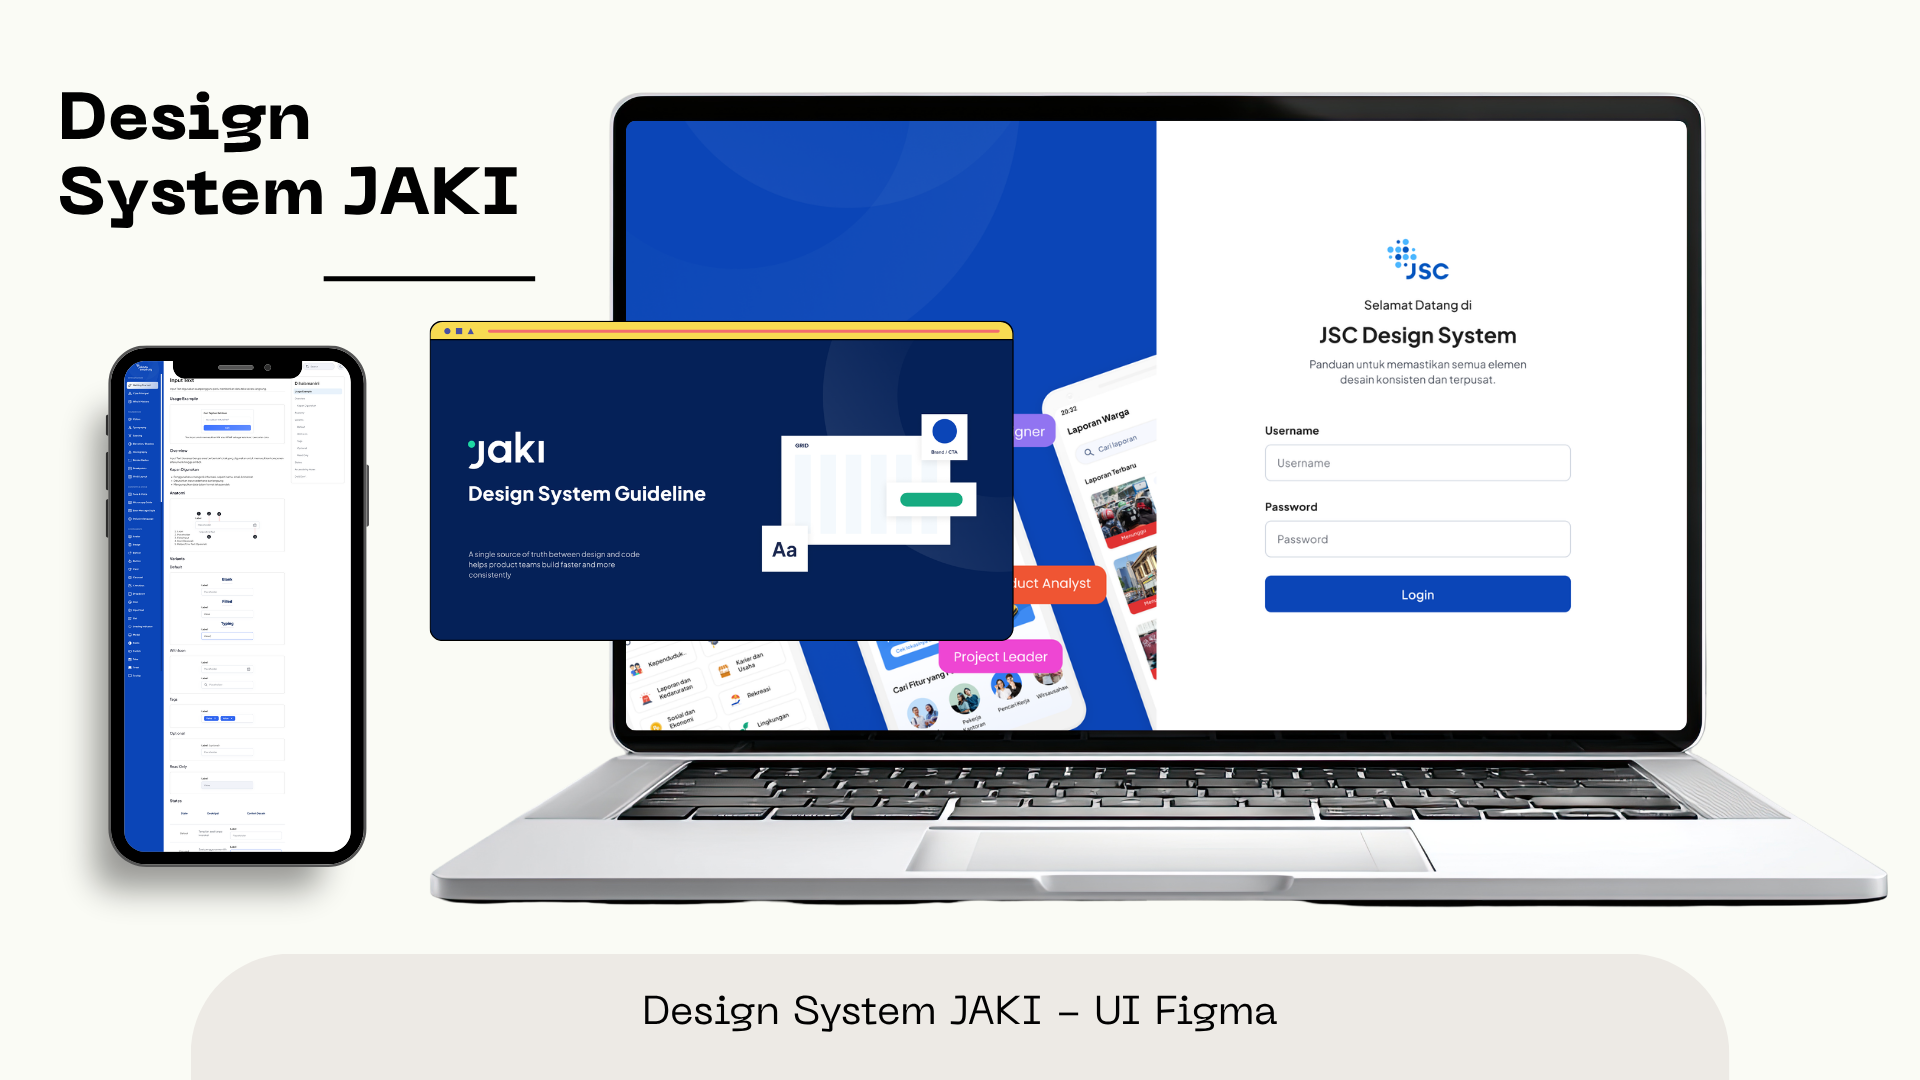
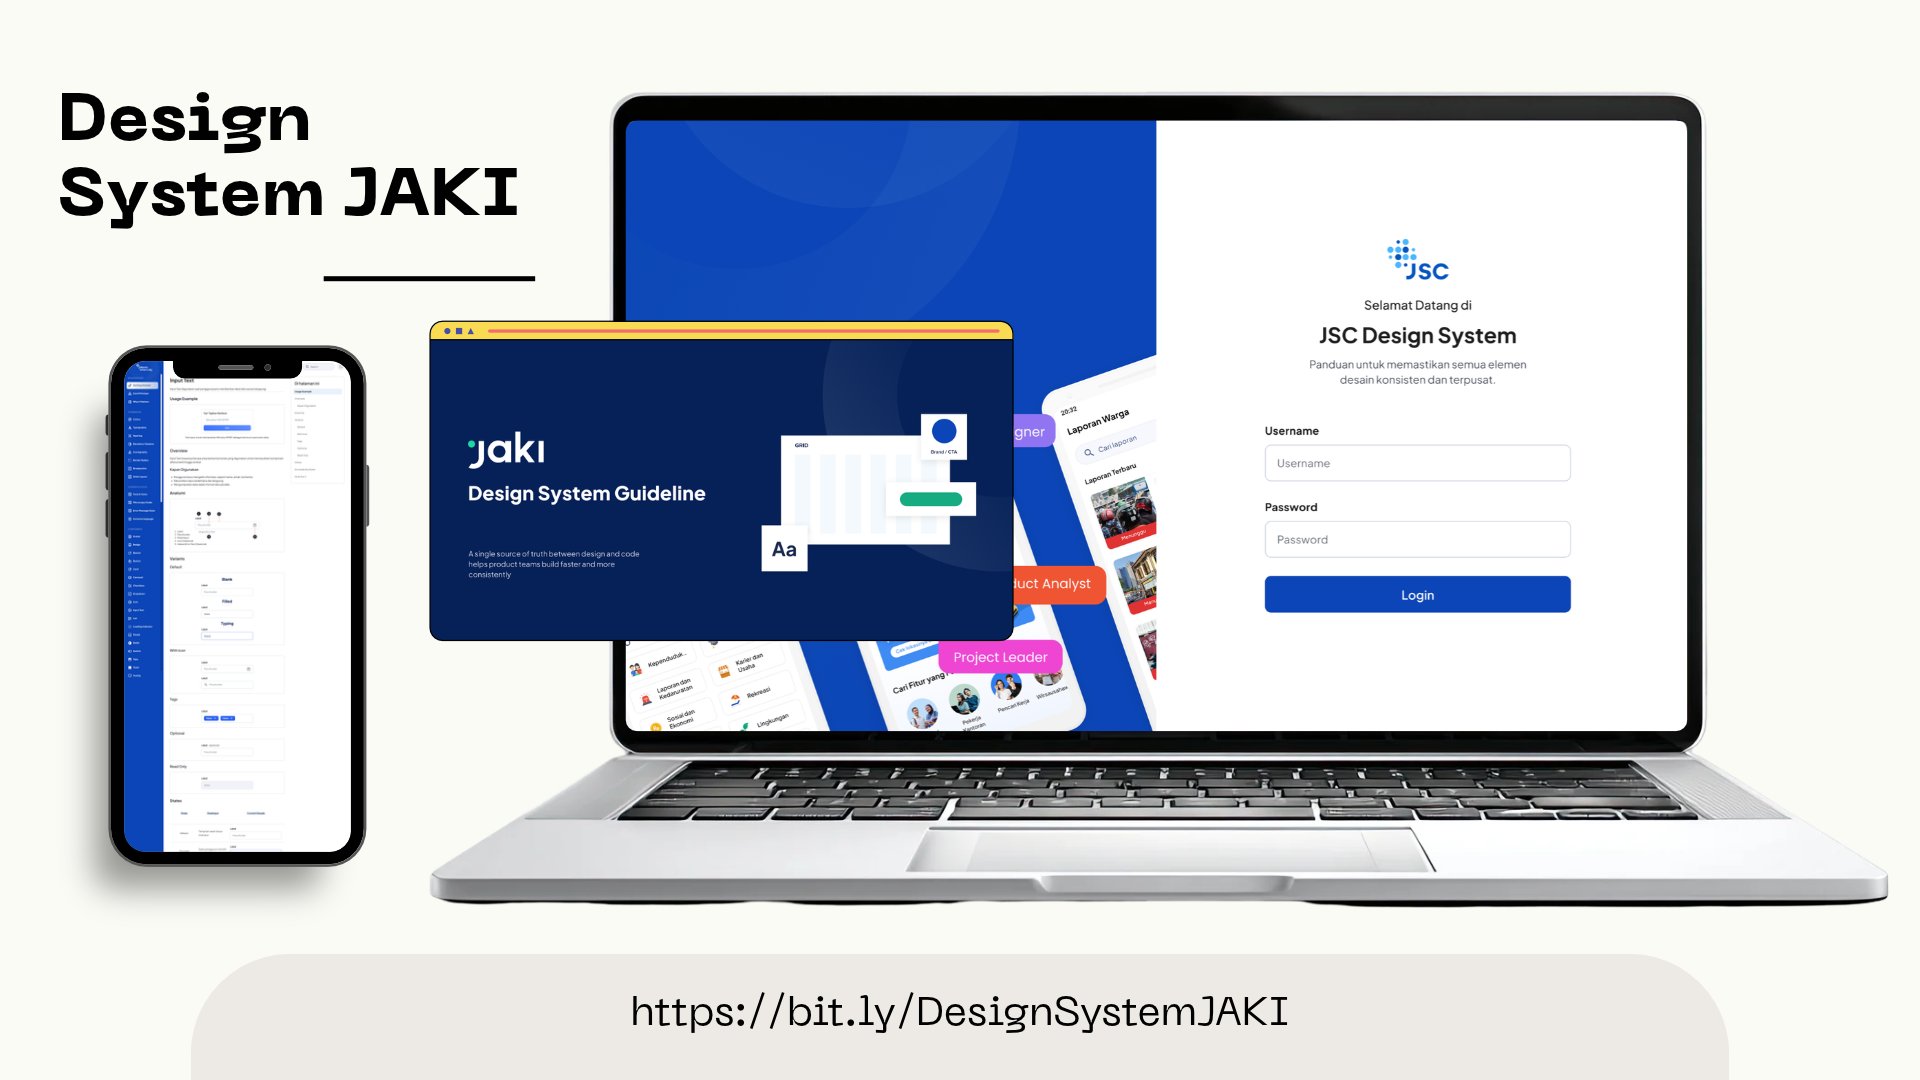
Update portfolio

diff --git a/components/Projects.tsx b/components/Projects.tsx
@@ -1,4 +1,5 @@
 import React, { useState, useEffect } from 'react';
+import { FaFigma } from 'react-icons/fa';
 
 export interface MetricItem {
   label: string;
@@ -40,6 +41,7 @@ export interface Project {
   size: 'normal' | 'large';
   link?: string;
   github?: string;
+  figma?: string;
 }
 
 const Projects: React.FC = () => {
@@ -205,7 +207,8 @@ const Projects: React.FC = () => {
       ],
       tools: ["Figma", "Design Tokens", "Auto Layout", "Variants", "WCAG Guidelines"],
       size: 'normal',
-      github: "https://github.com/faiqmisbah"
+      link: "https://bit.ly/DesignSystemJAKI",
+      figma: "https://bit.ly/DesignSystemJAKI"
     },
     {
       id: 4,
@@ -624,6 +627,57 @@ const Projects: React.FC = () => {
       size: 'normal',
       link: "https://novel-recommendation.streamlit.app/",
       github: "https://github.com/faiqmisbah/novel-recommendation"
+    },
+    {
+      id: 11,
+      title: "StudyMate - Focus & Study Management",
+      category: "UI/UX",
+      year: "2026",
+      image: "./projects/StudyMate.png",
+      description: "A dedicated mobile app UI/UX design and interactive prototype exploring student time management, integrated Pomodoro focus tracking, daily goals, and analytics.",
+      fullDescription: "StudyMate is an end-to-end mobile app UI/UX design case study and interactive Figma prototype created to address students' time-management and concentration challenges. Developed strictly as a mobile product design concept based on a structured Product Requirements Document (PRD), the project focuses on intuitive mobile interaction architecture—unifying academic task planning, an integrated Pomodoro focus timer with automated session tracking, daily progress rings, and weekly productivity analytics into an engaging, distraction-free smartphone experience.",
+      tags: ["Figma", "Mobile UI/UX Design", "Interactive Prototype", "Product Design", "Pomodoro Technique", "PRD"],
+      metrics: [
+        { label: "Project Scope", value: "Mobile App Design Only" },
+        { label: "Deliverable", value: "Interactive Prototype" },
+        { label: "Core Modules", value: "4 MVP Modules" },
+        { label: "Focus Method", value: "Pomodoro Technique" }
+      ],
+      businessQuestions: [
+        "How to centralize academic task scheduling and focus tracking into a unified, distraction-free mobile UI?",
+        "How to integrate Pomodoro interval sessions directly with specific subject-based tasks and automatic logging?",
+        "How to visualize daily learning targets and productivity analytics to reinforce student accountability and consistency?",
+        "How to gracefully handle study interruptions and paused sessions without corrupting aggregated focus statistics?"
+      ],
+      keyInsights: [
+        {
+          title: "Seamless Task & Pomodoro Synergy",
+          description: "Connected academic task lists directly with active 25-minute Pomodoro focus cycles, automatically updating assignment completion statuses."
+        },
+        {
+          title: "Real-Time Daily Goal Accountability",
+          description: "Implemented live goal progress indicators tracking both daily study minutes and completed Pomodoro session counts."
+        },
+        {
+          title: "Actionable Productivity Analytics",
+          description: "Designed intuitive visual summaries illustrating weekly study trends, subject time distributions, and daily focus streaks."
+        },
+        {
+          title: "Distraction-Resilient UX Flows",
+          description: "Architected an intentional session-interruption confirmation flow to prevent false data logging when focus intervals are cut short."
+        }
+      ],
+      methodology: [
+        { step: "01", title: "Problem Discovery & PRD", description: "Researched student time-management challenges and established detailed functional requirements (TSK, PMD, GOL, ANL)." },
+        { step: "02", title: "Information Architecture & Flows", description: "Mapped end-to-end user journeys for task creation, Pomodoro timer cycles, goal updates, and analytics review." },
+        { step: "03", title: "Mobile-First Wireframing", description: "Created low-fidelity layouts and navigation structures optimized for one-handed smartphone interaction." },
+        { step: "04", title: "Design System & Tokens", description: "Established cohesive typography, accessible contrast palettes, reusable input components, and timer states." },
+        { step: "05", title: "Interactive Prototyping", description: "Delivered high-fidelity mobile prototypes in Figma demonstrating active timer states, modals, and flow transitions." }
+      ],
+      tools: ["Figma", "FigJam", "Mobile UI/UX", "Interactive Prototyping", "Wireframing", "Design System"],
+      size: 'normal',
+      link: "http://tiny.cc/studymate",
+      figma: "http://tiny.cc/studymate"
     }
   ];
 
@@ -769,30 +823,47 @@ const Projects: React.FC = () => {
                   ))}
                 </div>
 
-                {/* Main Action CTAs (Includes Visit Live, GitHub Repo & Contact) */}
+                {/* Main Action CTAs (Includes Visit Live / Figma, GitHub Repo & Contact) */}
                 <div className="flex flex-wrap items-center gap-3 pt-4 border-b border-slate-200 pb-8">
-                  {selectedProject.link && (
-                    <a
-                      href={selectedProject.link}
-                      target="_blank"
-                      rel="noopener noreferrer"
-                      className="inline-flex items-center gap-2 px-5 py-2.5 rounded-xl bg-[#0c3836] hover:bg-[#072725] text-white font-bold text-xs sm:text-sm shadow-md shadow-[#0c3836]/20 transition-all transform hover:-translate-y-0.5"
-                    >
-                      <span>Visit Live Project</span>
-                      <span className="material-symbols-outlined text-base">open_in_new</span>
-                    </a>
-                  )}
+                  {selectedProject.category === 'UI/UX' ? (
+                    (selectedProject.figma || selectedProject.link) && (
+                      <a
+                        href={selectedProject.figma || selectedProject.link}
+                        target="_blank"
+                        rel="noopener noreferrer"
+                        className="inline-flex items-center gap-2 px-5 py-2.5 rounded-xl bg-[#0c3836] hover:bg-[#072725] text-white font-bold text-xs sm:text-sm shadow-md shadow-[#0c3836]/20 transition-all transform hover:-translate-y-0.5"
+                      >
+                        <FaFigma className="text-sm" />
+                        <span>Figma Prototype & Design</span>
+                        <span className="material-symbols-outlined text-base">open_in_new</span>
+                      </a>
+                    )
+                  ) : (
+                    <>
+                      {selectedProject.link && (
+                        <a
+                          href={selectedProject.link}
+                          target="_blank"
+                          rel="noopener noreferrer"
+                          className="inline-flex items-center gap-2 px-5 py-2.5 rounded-xl bg-[#0c3836] hover:bg-[#072725] text-white font-bold text-xs sm:text-sm shadow-md shadow-[#0c3836]/20 transition-all transform hover:-translate-y-0.5"
+                        >
+                          <span>Visit Live Project</span>
+                          <span className="material-symbols-outlined text-base">open_in_new</span>
+                        </a>
+                      )}
 
-                  {selectedProject.github && (
-                    <a
-                      href={selectedProject.github}
-                      target="_blank"
-                      rel="noopener noreferrer"
-                      className="inline-flex items-center gap-2 px-5 py-2.5 rounded-xl bg-slate-900 hover:bg-slate-800 text-white font-bold text-xs sm:text-sm shadow-md transition-all transform hover:-translate-y-0.5"
-                    >
-                      <span className="material-symbols-outlined text-base">code</span>
-                      <span>GitHub Repo</span>
-                    </a>
+                      {selectedProject.github && (
+                        <a
+                          href={selectedProject.github}
+                          target="_blank"
+                          rel="noopener noreferrer"
+                          className="inline-flex items-center gap-2 px-5 py-2.5 rounded-xl bg-slate-900 hover:bg-slate-800 text-white font-bold text-xs sm:text-sm shadow-md transition-all transform hover:-translate-y-0.5"
+                        >
+                          <span className="material-symbols-outlined text-base">code</span>
+                          <span>GitHub Repo</span>
+                        </a>
+                      )}
+                    </>
                   )}
 
                   <a
@@ -1005,31 +1076,48 @@ const Projects: React.FC = () => {
 
             </div>
 
-            {/* Modal Footer Fixed Bar (Contains Open Live, GitHub Repo & Close Case Study) */}
+            {/* Modal Footer Fixed Bar (Contains Open Live / Figma, GitHub Repo & Close Case Study) */}
             <div className="shrink-0 bg-slate-50 border-t border-slate-200 px-6 sm:px-8 py-4 flex items-center justify-between flex-wrap gap-3 z-10">
               <div className="flex flex-wrap items-center gap-2">
-                {selectedProject.link && (
-                  <a
-                    href={selectedProject.link}
-                    target="_blank"
-                    rel="noopener noreferrer"
-                    className="inline-flex items-center gap-2 px-5 py-2.5 rounded-xl bg-[#0c3836] hover:bg-[#072725] text-white font-bold text-xs sm:text-sm shadow-md transition-all"
-                  >
-                    <span>Open Live Application</span>
-                    <span className="material-symbols-outlined text-base">open_in_new</span>
-                  </a>
-                )}
+                {selectedProject.category === 'UI/UX' ? (
+                  (selectedProject.figma || selectedProject.link) && (
+                    <a
+                      href={selectedProject.figma || selectedProject.link}
+                      target="_blank"
+                      rel="noopener noreferrer"
+                      className="inline-flex items-center gap-2 px-5 py-2.5 rounded-xl bg-[#0c3836] hover:bg-[#072725] text-white font-bold text-xs sm:text-sm shadow-md transition-all"
+                    >
+                      <FaFigma className="text-sm" />
+                      <span>Open Figma Link</span>
+                      <span className="material-symbols-outlined text-base">open_in_new</span>
+                    </a>
+                  )
+                ) : (
+                  <>
+                    {selectedProject.link && (
+                      <a
+                        href={selectedProject.link}
+                        target="_blank"
+                        rel="noopener noreferrer"
+                        className="inline-flex items-center gap-2 px-5 py-2.5 rounded-xl bg-[#0c3836] hover:bg-[#072725] text-white font-bold text-xs sm:text-sm shadow-md transition-all"
+                      >
+                        <span>Open Live Application</span>
+                        <span className="material-symbols-outlined text-base">open_in_new</span>
+                      </a>
+                    )}
 
-                {selectedProject.github && (
-                  <a
-                    href={selectedProject.github}
-                    target="_blank"
-                    rel="noopener noreferrer"
-                    className="inline-flex items-center gap-2 px-5 py-2.5 rounded-xl bg-slate-900 hover:bg-slate-800 text-white font-bold text-xs sm:text-sm shadow-md transition-all"
-                  >
-                    <span className="material-symbols-outlined text-base">code</span>
-                    <span>GitHub Repo</span>
-                  </a>
+                    {selectedProject.github && (
+                      <a
+                        href={selectedProject.github}
+                        target="_blank"
+                        rel="noopener noreferrer"
+                        className="inline-flex items-center gap-2 px-5 py-2.5 rounded-xl bg-slate-900 hover:bg-slate-800 text-white font-bold text-xs sm:text-sm shadow-md transition-all"
+                      >
+                        <span className="material-symbols-outlined text-base">code</span>
+                        <span>GitHub Repo</span>
+                      </a>
+                    )}
+                  </>
                 )}
               </div>
 
